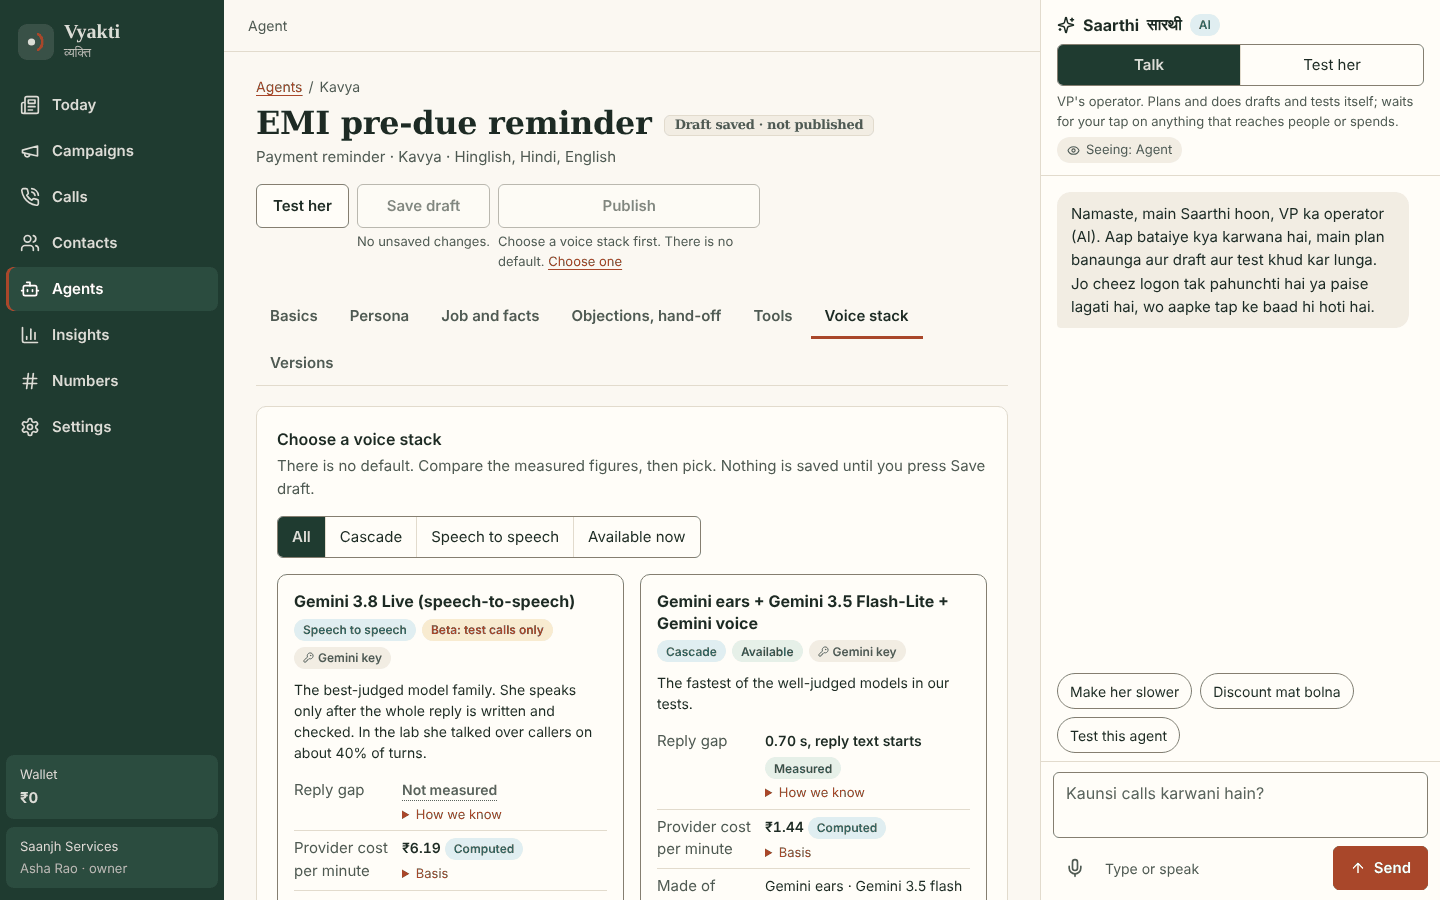
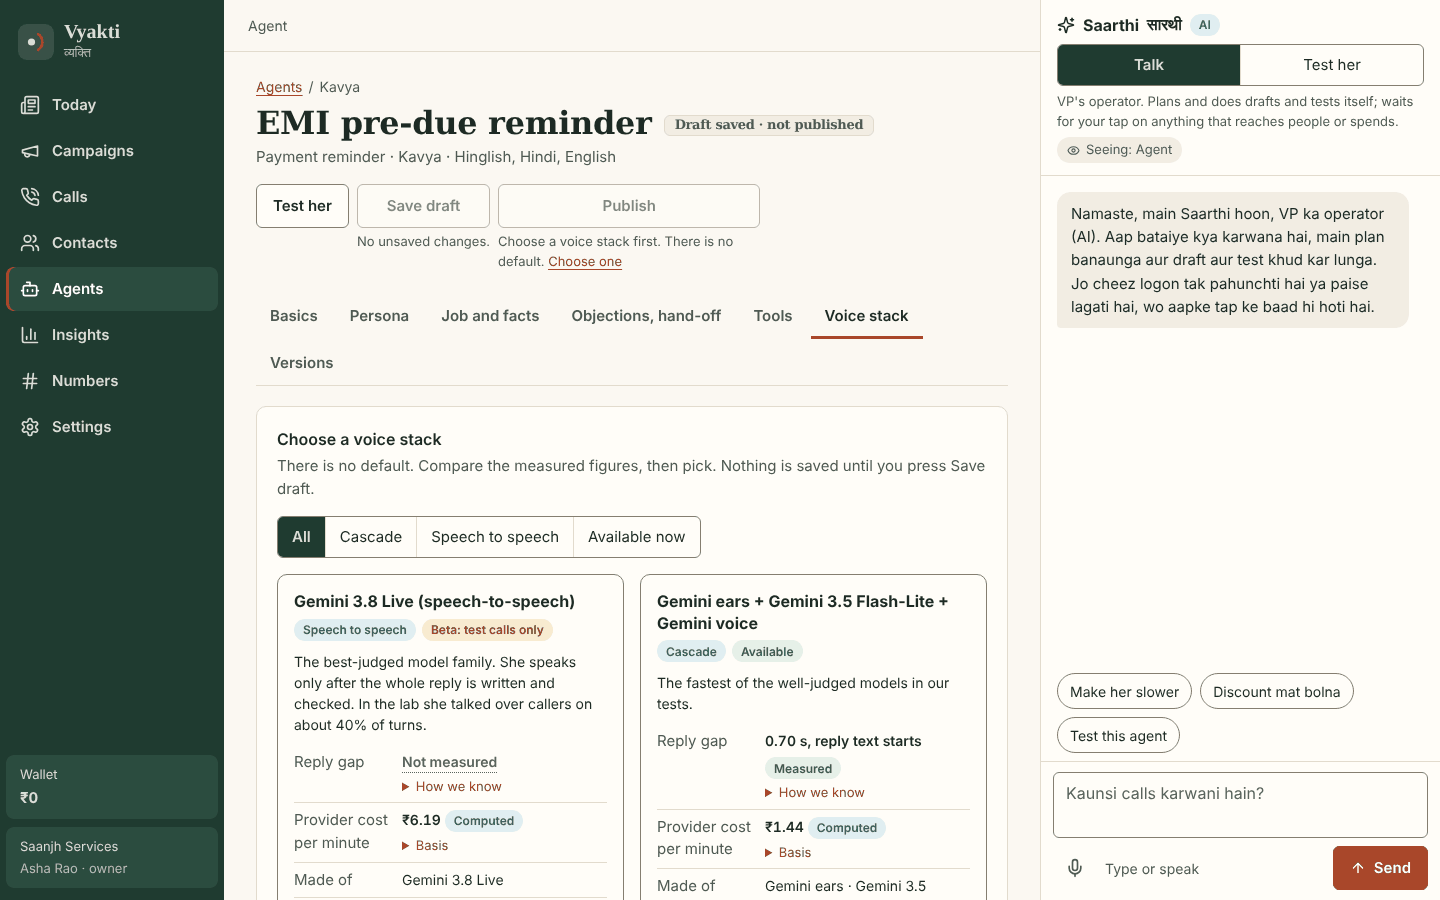
web: operator named in activity, plain stack part names, no key chips, rule and consent wording, re-shot all screens
Claude-Session: https://claude.ai/code/session_014EmCLozX1VcXabqUjBazhN

Changed region(s): [[0.1875, 0.7156, 0.4375, 1.0], [0.5625, 0.7156, 0.625, 0.7467]]

diff --git a/product/web/src/pages/contacts.tsx b/product/web/src/pages/contacts.tsx
@@ -199,7 +199,7 @@ function ContactPage({ id }: { id: string }) {
           </div>
           <div className="stack">
             <Card><CardHead title="Consent" />{c.consent.length === 0 ? <p className="muted">No consent is recorded for this person. Service and transactional calls to existing customers do not need one; promotional calls do.</p> :
-              <ul className="facts">{c.consent.map(k => <li key={k.id}><div className="row" style={{ justifyContent: 'space-between' }}><strong>{k.purpose}</strong><Chip tone={k.granted ? 'leaf' : 'brick'}>{k.granted ? 'Granted' : 'Withdrawn'}</Chip></div><p className="small muted">{k.basis.replace(/_/g, ' ')} · {k.channel} · {date(k.created_at)}</p></li>)}</ul>}</Card>
+              <ul className="facts">{c.consent.map(k => <li key={k.id}><div className="row" style={{ justifyContent: 'space-between' }}><strong>{CONSENT_FOR[k.purpose] ?? prettyCode(k.purpose)}</strong><Chip tone={k.granted ? 'leaf' : 'brick'}>{k.granted ? 'Granted' : 'Withdrawn'}</Chip></div><p className="small muted">{CONSENT_BASIS[k.basis] ?? prettyCode(k.basis)} · {k.channel === 'voice' ? 'phone calls' : prettyCode(k.channel).toLowerCase()} · {date(k.created_at)}</p></li>)}</ul>}</Card>
             <Card><CardHead title="Do Not Disturb" /><Kv rows={[['Status', dndChip(c.dnd.status)], ['Last checked', c.dnd.checkedAt ? date(c.dnd.checkedAt, true) : 'Not yet'], [ 'Check', c.dnd.fresh ? 'Recent enough for promotional calls' : 'Needs a fresh check before promotional calls']]} /></Card>
             <Card><CardHead title="Details from your lists" /><Kv rows={c.attributes.filter(a => a.key !== 'name').map(a => [a.key.replace(/_/g, ' '), <span key={a.key}>{a.key === 'language' ? langShort(String(a.value)) : isoDay(a.value) ?? String(a.value)}{a.stale && <span className="muted"> · stale</span>}</span>] as [string, React.ReactNode])} /></Card>
           </div>
@@ -207,3 +207,6 @@ function ContactPage({ id }: { id: string }) {
       </>)}</Async></div>
   );
 }
+
+const CONSENT_FOR: Record<string, string> = { all: 'All calls', service: 'Service calls', transactional: 'Transactional calls', promotional: 'Promotional calls' };
+const CONSENT_BASIS: Record<string, string> = { withdrawal: 'Asked to stop', opt_out: 'Asked to stop', express: 'Said yes', written: 'Agreed in writing', verbal: 'Agreed on a call', existing_customer: 'Existing customer' };

diff --git a/product/web/src/stack-picker.tsx b/product/web/src/stack-picker.tsx
@@ -1,13 +1,12 @@
 // The voice stack picker. Owner directive: the user chooses among the finalised stacks; NO default is preselected and nothing
 // is marked "recommended". Every figure carries its grade and source; a missing price or latency says so instead of showing 0.
 import { useEffect, useMemo, useState } from 'react';
-import { AlertTriangle, Check, KeyRound, Volume2 } from 'lucide-react';
+import { AlertTriangle, Check, Volume2 } from 'lucide-react';
 import { STACKS, type VoiceStack } from '../../shared/stacks.ts';
 import * as api from './api.ts';
 import { Btn, Chip, Figure, NotMeasured, Segmented } from './ui.tsx';
 import { inr } from './format.ts';
 import { prettyId } from './catalog.ts';
-const CRED: Record<string, string> = { GEMINI: 'Gemini', AZURE_OPENAI: 'Azure OpenAI', AZURE_SPEECH: 'Azure Speech', OPENROUTER: 'OpenRouter', SARVAM: 'Sarvam' };
 import { useApp } from './store.tsx';
 
 export const BETA_REASON = 'Beta stacks run test calls only: the dial gate refuses them for any call to a real person until their risks are cleared and the stack is marked available.';
@@ -64,7 +63,6 @@ function StackCard({ s, selected, price, onPick }: { s: VoiceStack; selected: bo
           <div className="row" style={{ gap: 6, marginTop: 6 }}>
             <Chip tone="peacock">{s.kind === 's2s' ? 'Speech to speech' : 'Cascade'}</Chip>
             <Chip tone={s.status === 'available' ? 'leaf' : 'marigold'} title={s.status === 'beta' ? BETA_REASON : undefined}>{s.status === 'available' ? 'Available' : 'Beta: test calls only'}</Chip>
-            {s.requires?.map(r => <Chip key={r} icon={<KeyRound size={11} aria-hidden />} title={`Needs the ${CRED[r] ?? r} credential on the voice runtime`}>{CRED[r] ?? r} key</Chip>)}
           </div>
         </div>
       </div>

diff --git a/product/web/src/pages/settings.tsx b/product/web/src/pages/settings.tsx
@@ -244,6 +244,6 @@ export { count, Lock };
 
 const SECRET_WORDS: Record<string, string> = { service_account_json: 'service account file', api_key: 'API key', api_token: 'API token', webhook_url: 'webhook address', client_id: 'client ID' };
 const secretWords = (s: string) => SECRET_WORDS[s] ?? s.replace(/_/g, ' ').replace(/\bjson\b/gi, 'file').replace(/\burl\b/gi, 'address');
-const ruleWords = (r: string) => { const t = r.replace(/neverSay/g, 'never-say list').replace(/([a-z])([A-Z])/g, '$1 $2'); return t.charAt(0).toUpperCase() + t.slice(1); };
+const ruleWords = (r: string) => { const t = r.replace(/\s*\(allow-list:[^)]*\)/, '. She may only mention her own nature to say she is an AI').replace(/neverSay/g, 'never-say list').replace(/([a-z])([A-Z])/g, '$1 $2'); return t.charAt(0).toUpperCase() + t.slice(1); };
 
 const walletNote = (x: string) => /^no money available/i.test(x) ? 'There is no money to spend. New attempts wait; calls already live always finish.' : x.charAt(0).toUpperCase() + x.slice(1);

diff --git a/product/web/src/catalog.ts b/product/web/src/catalog.ts
@@ -49,7 +49,9 @@ export const PURPOSE_HINT: Record<string, string> = { service: 'About their own 
 
 export function prettyId(id: string | undefined): string {
   if (!id) return '';
-  return id.replace(/@or$/, ' via OpenRouter').replace(/-/g, ' ').replace(/\b(gemini|gpt|sarvam|azure|mai)\b/gi, m => m[0].toUpperCase() + m.slice(1)).replace(/\bgpt\b/i, 'GPT');
+  const via = /@or$/.test(id) ? ' via OpenRouter' : '';
+  const words = id.replace(/@or$/, '').split('-').map(w => w === 'gpt' || w === 'mai' ? w.toUpperCase() : /^\d+b$/i.test(w) ? w.toUpperCase() : /^\d/.test(w) ? w : w[0].toUpperCase() + w.slice(1));
+  return words.join(' ').replace('Flash Lite', 'Flash-Lite').replace('MAI Voice', 'MAI-Voice') + via;
 }
 
 /** Language codes as the server stores them (hi-en, hi, ta ...) next to the agent-config ones. */

diff --git a/product/web/src/labels.ts b/product/web/src/labels.ts
@@ -166,7 +166,7 @@ export function pageFor(tool: string): string | null {
 // Audit events that are not tools; written so the tool-contract scan does not mistake them for tool ids.
 const PROPOSED = ['action', 'propose'].join('.'), CREATED = ['workspace', 'create'].join('.');
 export function activitySentence(line: string, action: string): string {
-  const actor = /^(.+?) (?:ran|asked|did|made|set|changed) /.exec(line)?.[1] ?? 'Someone';
+  const actor = (/^(.+?) (?:ran|asked|did|made|set|changed|created|added|saved|reviewed) /.exec(line)?.[1] ?? 'Someone').replace(/^An agent$/, 'Saarthi');
   if (action === CREATED) return `${actor} created the workspace`;
   if (action === PROPOSED) {
     const words = /asked to run (.+?) and is waiting/.exec(line)?.[1];
